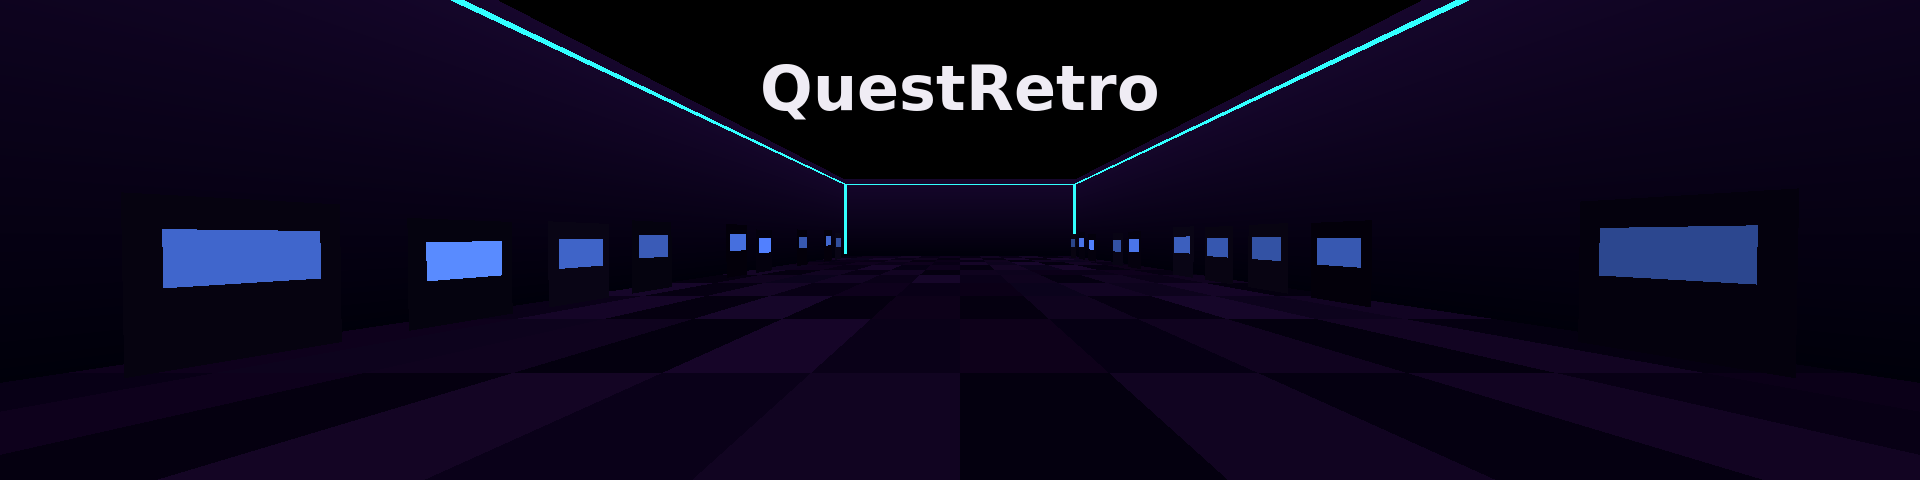
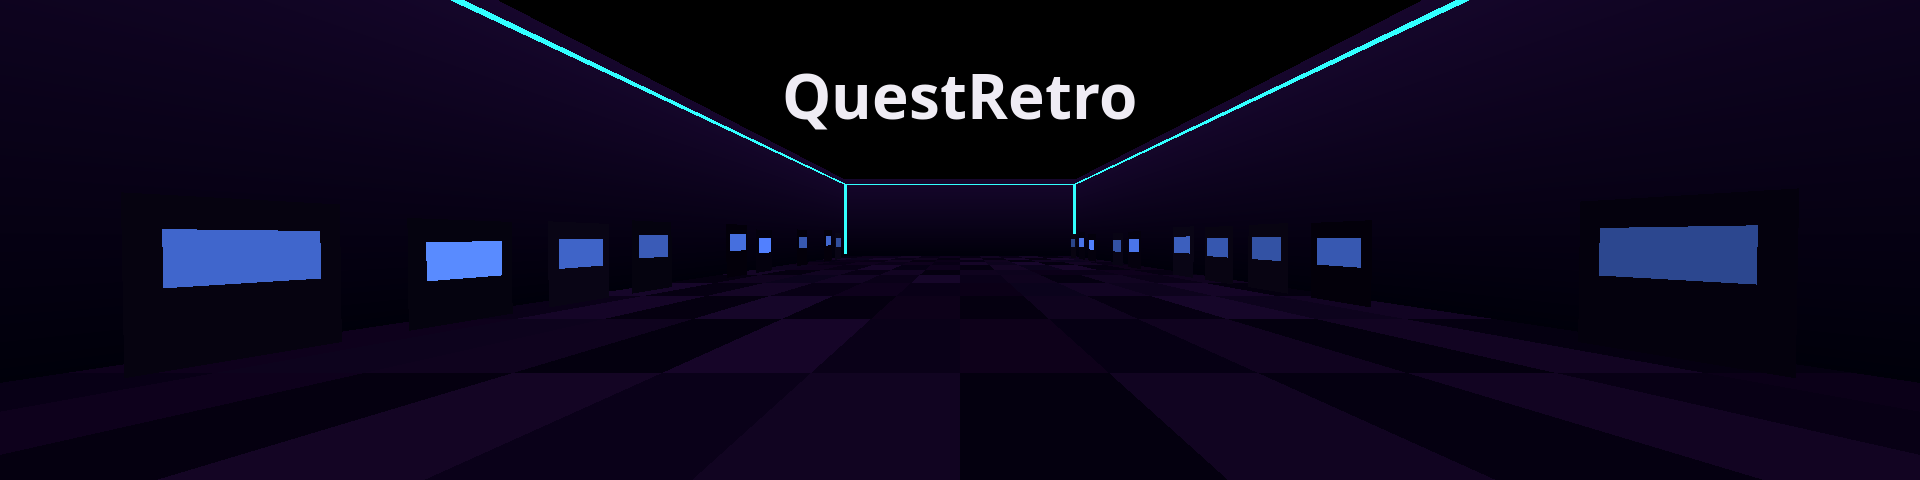
O tema da itch sai da paleta do app, e a arte passa a usar a fonte do app
Quem sai da loja e entra no headset não deve sentir que trocou de produto, então
BG2, Text, Link e Headers vêm de tema.gd. A fonte é Open Sans: é a padrão do
Godot 4 e o projeto não define nenhuma outra, ou seja, é literalmente a que
aparece dentro do headset. A capa e o banner estavam em DejaVu — inconsistência
que eu mesmo tinha introduzido, do tipo que ninguém aponta e todo mundo sente.
Regeneradas.

Duas correções que vieram de medir contraste em vez de confiar no olho:

O botão não pode usar o mesmo roxo do link. Como texto claro sobre escuro o
ACCENT dá 5,5:1 e passa; como fundo sob o texto branco do botão de download ele
dá 3,05:1, que só se sustenta por ser texto grande. O botão de download é o
elemento que converte a página, então ele leva o mesmo matiz escurecido até
4,55:1.

E Headers fica branco, não accent. No app os rótulos de seção são roxos e ali
funciona porque não há link nenhum; na web, roxo é a convenção de clicável, e
título não clicável na cor dos links treina a pessoa a clicar no que não
responde.

Changed region(s): [[0.375, 0.125, 0.625, 0.2812]]

diff --git a/docs/ITCH.md b/docs/ITCH.md
@@ -93,6 +93,37 @@ forma que a Nintendo atacou.
 `emulator`, `virtual-reality`, `vr`, `meta-quest`, `retro`, `snes`, `nintendo-64`,
 `sega-genesis`, `nintendo-ds`, `godot`, `open-source`, `libretro`
 
+## Tema (Edit theme)
+
+A página usa a paleta do próprio app (`app/scripts/ui/tema.gd`), para quem sai da
+loja e entra no headset não sentir que trocou de produto.
+
+| campo da itch | valor | de onde vem |
+|---|---|---|
+| BG | `#0e0c12` | base do `fundo-itch.png`, para a imagem assentar sem emenda |
+| BG2 (coluna) | `#1f1c26` | `SURFACE` — no app é a sidebar, o mesmo papel de "painel sobre o mundo" |
+| Text | `#efecf4` | `INK` — 14,4:1 sobre a coluna, AAA |
+| Link | `#9a85e8` | `ACCENT` — 5,5:1, AA |
+| Buttons | `#7b6aba` | `ACCENT` escurecido; ver abaixo |
+| Headers | `#efecf4` | `INK`, **não** o accent |
+| Font (corpo e títulos) | **Open Sans** | é a fonte padrão do Godot 4, e o projeto não define outra — literalmente a fonte que aparece dentro do headset |
+
+Três escolhas que não são gosto, e que a conta de contraste decidiu:
+
+- **Buttons não é o mesmo roxo do Link.** O mesmo tom não serve para os dois papéis:
+  como texto claro sobre fundo escuro o `ACCENT` dá 5,5:1 e passa; como **fundo** sob
+  o texto branco do botão de download ele dá **3,05:1**, que só passa por ser texto
+  grande. `#7b6aba` é o mesmo matiz (253°) escurecido até 4,55:1 com branco. O botão
+  de download é o elemento que converte a página — é onde não se economiza contraste.
+- **Headers é branco, não roxo.** No app os rótulos de seção são accent, e ali isso
+  funciona porque não existe link nenhum. Na web, roxo é a convenção de "clicável":
+  título não clicável na mesma cor dos links treina a pessoa a clicar no que não
+  responde.
+- **BG e BG2 quase não se distinguem** (1,16:1), e isso é de propósito **enquanto
+  houver imagem de fundo** — é o `fundo-itch.png` que separa a coluna, não o degrau de
+  cor. Se você tirar a imagem, suba o BG2 para `#2a2534` (`RAISED`), senão a coluna
+  some.
+
 ## Arte
 
 As três peças saem de um comando:
